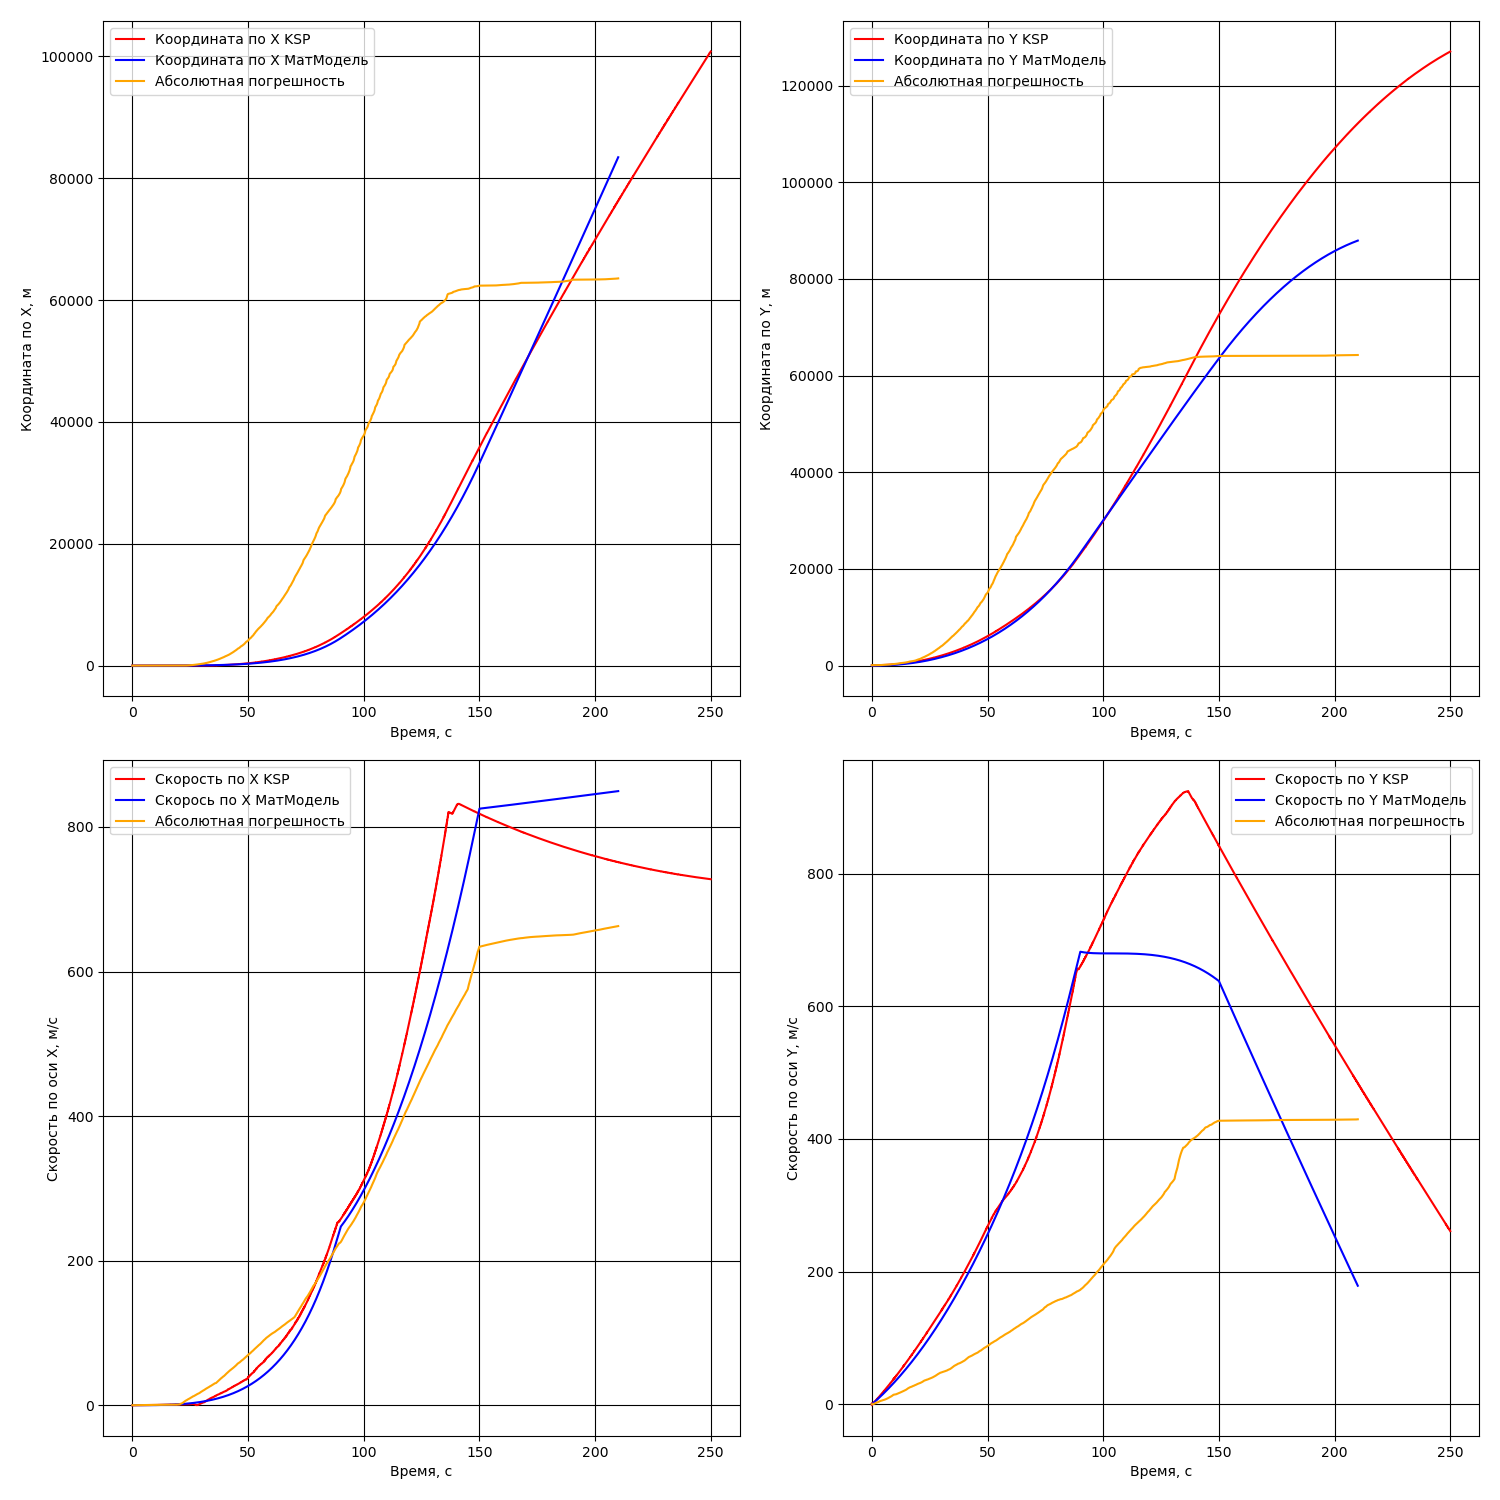
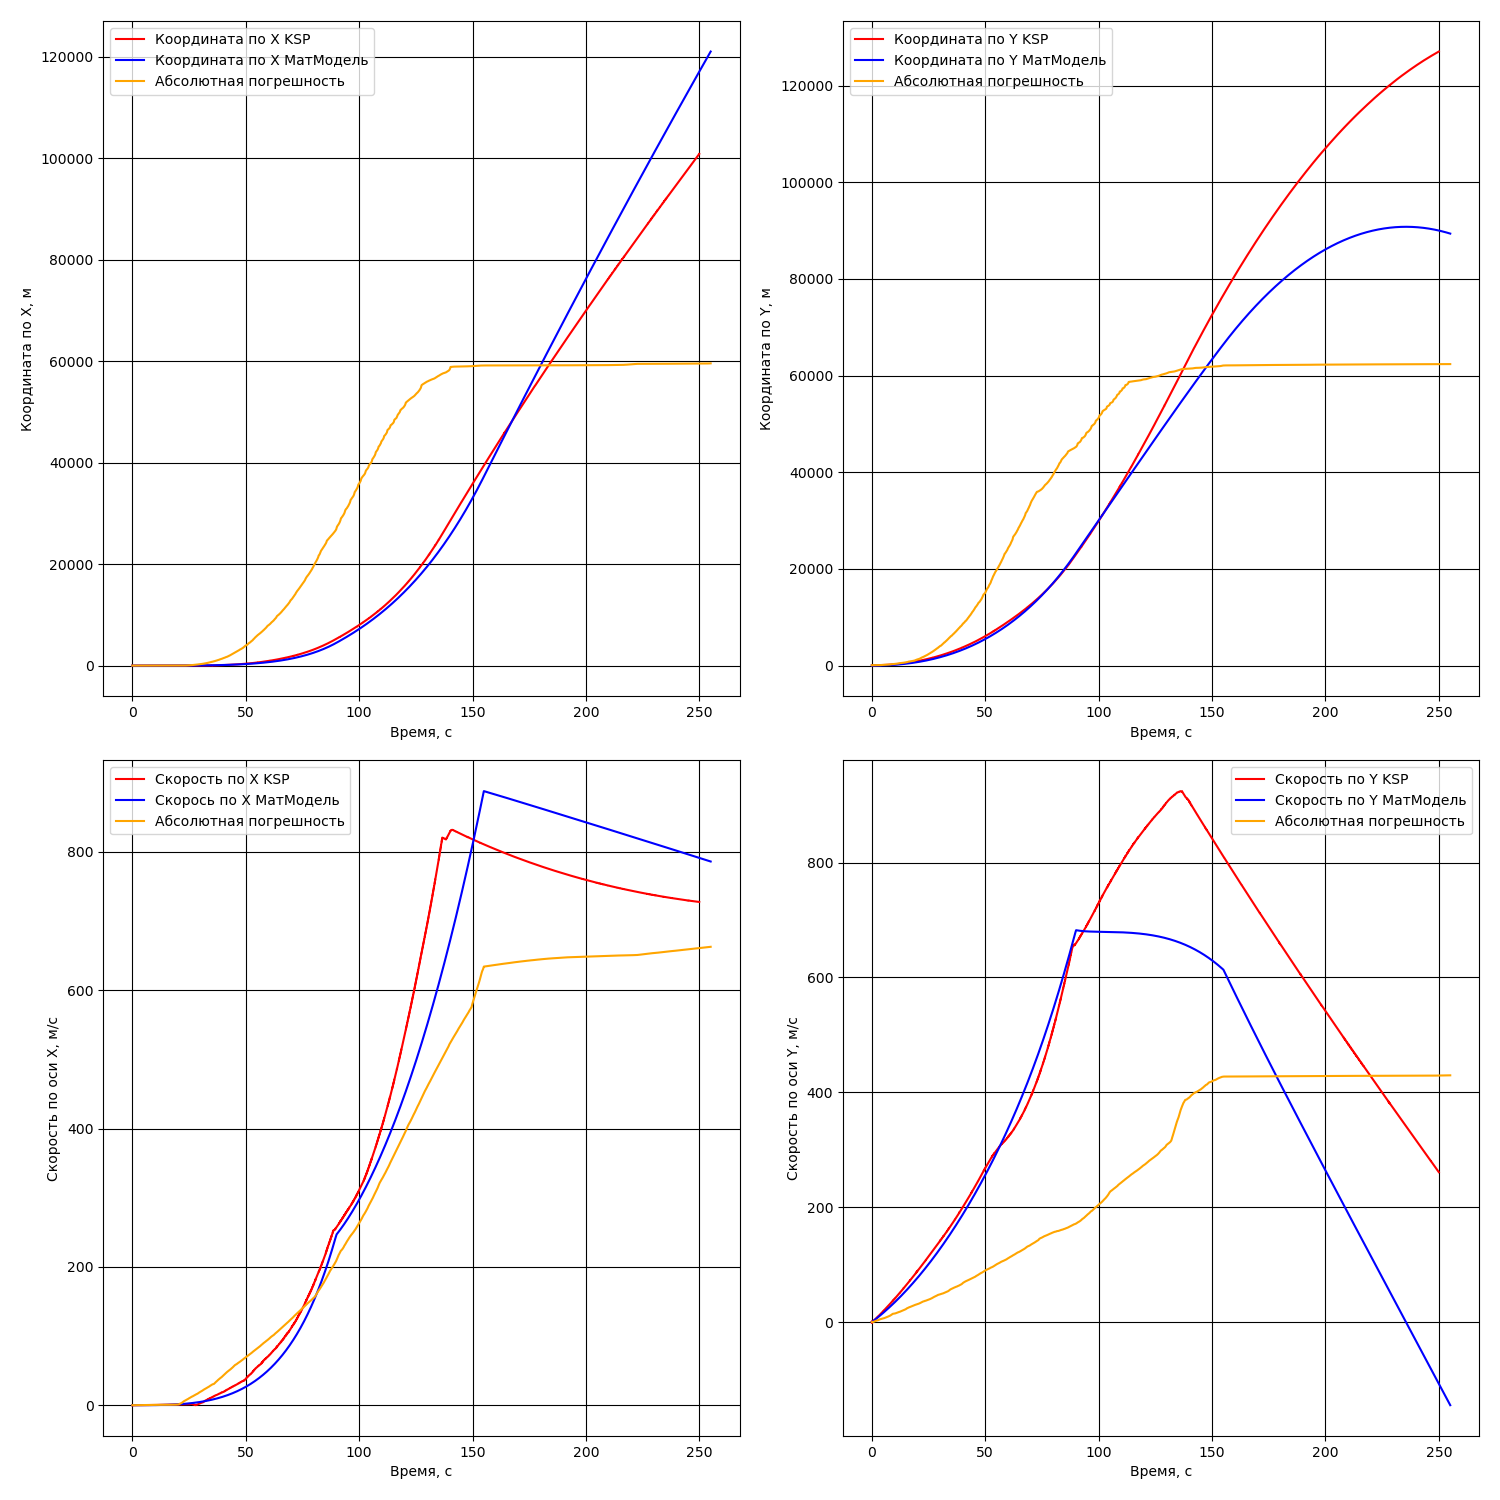
total_finish

diff --git a/Mat_model_graphics/matmodel.py b/Mat_model_graphics/matmodel.py
@@ -3,11 +3,10 @@ import matplotlib.pyplot as plt
 from scipy.integrate import odeint
 
 stages = [ 
-    {'massa_stage': 50_000, 'massa_fuel': 110_000, 'burn_time': 100, 'f_tract': 2_700_000}, 
-    {'massa_stage': 15_000, 'massa_fuel': 20_000, 'burn_time': 120, 'f_tract': 500_000}, 
-    {'massa_stage': 25_000, 'massa_fuel': 600, 'burn_time': 50, 'f_tract': 50_000} 
+    {'massa_stage': 50_000, 'massa_fuel': 110_000, 'burn_time': 90, 'f_tract': 2_700_000}, 
+    {'massa_stage': 15_000, 'massa_fuel': 20_000, 'burn_time': 65, 'f_tract': 500_000}, 
+    {'massa_stage': 10_000, 'massa_fuel': 600, 'burn_time': 100, 'f_tract': -15_000} 
 ] 
-
 e = 2.718281828459045
 pi = 3.14
 
@@ -108,7 +107,7 @@ def system(y: list, t: list, num_stage: int) -> list:
     return [speedX, dSpeedX, speedY, dSpeedY]
 
 
-start_value = [0, 0, 0, 0] # начальные значения
+start_value = [0, 0, 6400, 0] # начальные значения
 
 # первая ступень 
 time1 = np.linspace(0, stages[0]["burn_time"]) # Время работы первой ступени 

diff --git a/Compare_graphics/compare_graphics.py b/Compare_graphics/compare_graphics.py
@@ -5,6 +5,12 @@ from math import cos, sin, sqrt
 import json
 
 
+def improve_radius(array):
+    for i in range(len(array)):
+        array[i] += 64000
+    return array
+
+
 def abs_error(array1: list, array2: list) -> list:
     """abs_error
     Функция, которая высчитывает абсолютную погрешность 
@@ -47,8 +53,8 @@ def otn_error(abs_error, array):
 
 stages = [ 
     {'massa_stage': 50_000, 'massa_fuel': 110_000, 'burn_time': 90, 'f_tract': 2_700_000}, 
-    {'massa_stage': 15_000, 'massa_fuel': 20_000, 'burn_time': 60, 'f_tract': 500_000}, 
-    {'massa_stage': 10_000, 'massa_fuel': 600, 'burn_time': 60, 'f_tract': 6_000} 
+    {'massa_stage': 15_000, 'massa_fuel': 20_000, 'burn_time': 65, 'f_tract': 500_000}, 
+    {'massa_stage': 10_000, 'massa_fuel': 600, 'burn_time': 100, 'f_tract': -15_000} 
 ] 
 
 e = 2.718281828459045
@@ -120,7 +126,6 @@ def system(y: list, t: list, num_stage: int) -> list:
     """
 
     Xx, speedX, Xy, speedY = y
-
     global T
 
     stage = stages[num_stage]
